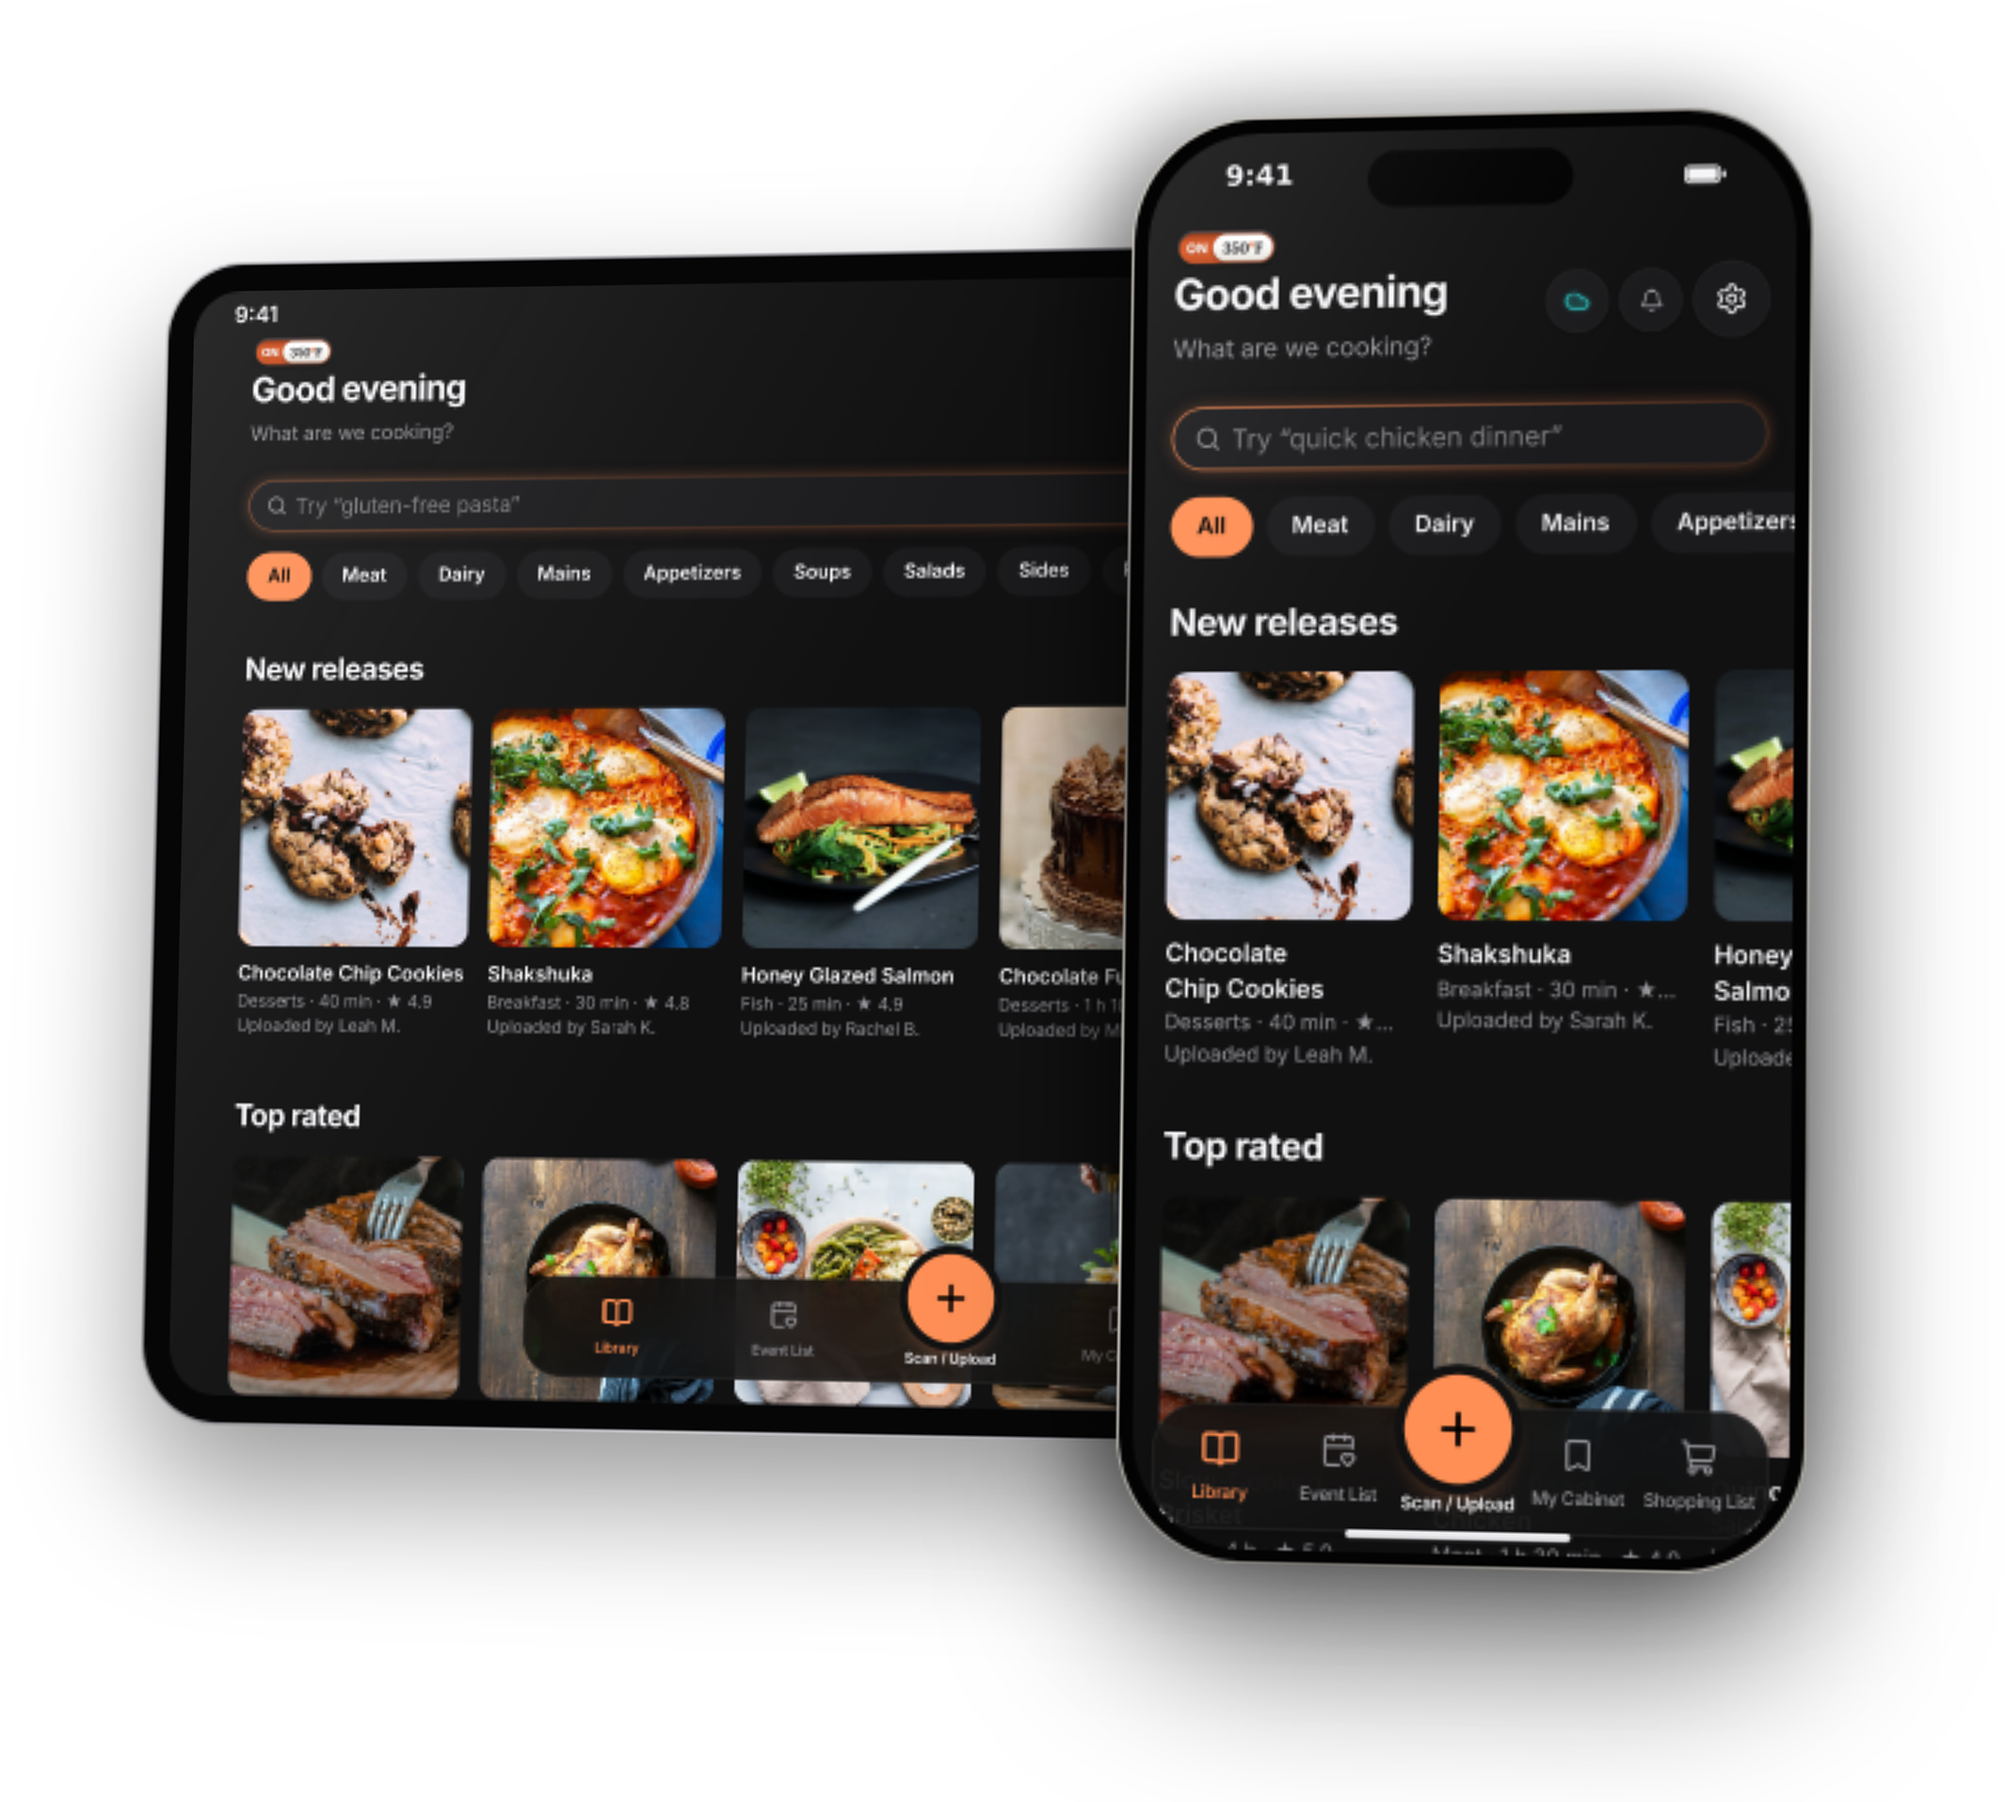
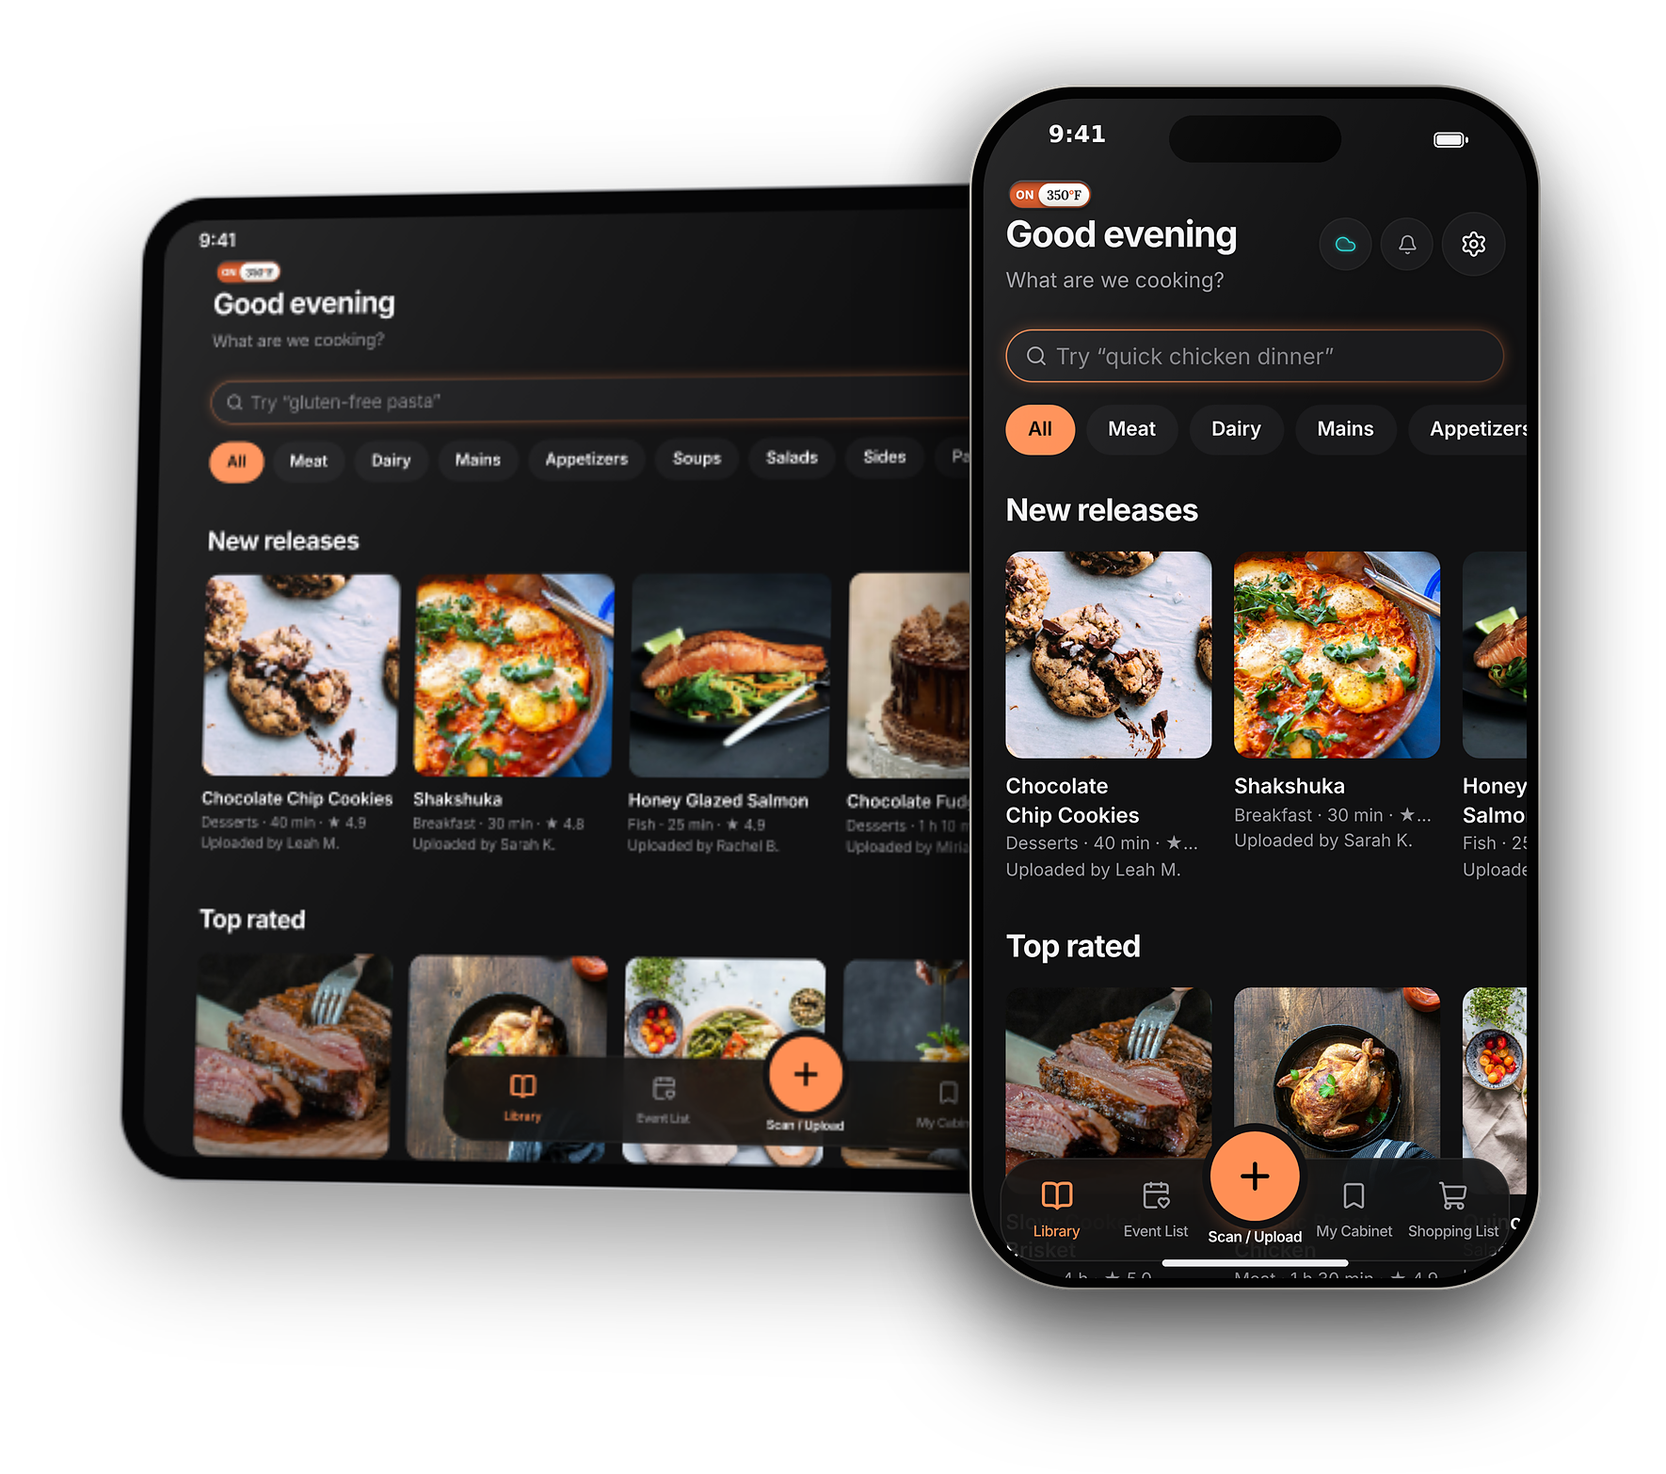
Website picture: straight iPhone in front of the tilted iPad, a little smaller, original layout (#123)
Claude-Session: https://claude.ai/code/session_01ADXpCTEnMXBBp4mHBc7Y2V

Changed region(s): [[0.0621, 0.0307, 0.9633, 0.9195]]

diff --git a/on350-landing/site/styles.css b/on350-landing/site/styles.css
@@ -76,9 +76,8 @@ p { margin: 0; }
 .hero-phone { display: flex; justify-content: center; }
 .phone { width: 320px; max-width: 100%; aspect-ratio: 390 / 844; border-radius: 44px; overflow: hidden; box-shadow: 0 0 0 8px #2a2a2d, 0 0 0 9px rgba(255, 255, 255, 0.08), 0 40px 90px rgba(0, 0, 0, 0.6), 0 0 120px rgba(255, 143, 85, 0.18); }
 .phone img { width: 100%; height: 100%; object-fit: cover; object-position: top; }
-.devices { display: block; flex: none; width: min(720px, 120%); margin: 0 -6% 0 -11%; }
-@media (min-width: 901px) { .hero { grid-template-columns: 0.95fr 1.05fr; gap: 32px; } .hero h1 { font-size: clamp(42px, 5vw, 64px); } }
-@media (min-width: 901px) and (max-width: 1150px) { .devices { width: 112%; margin: 0 -2% 0 -10%; } }
+.devices { display: block; flex: none; width: min(680px, 126%); margin: 0 -6% 0 -20%; }
+@media (max-width: 1150px) { .devices { width: 120%; margin: 0 -2% 0 -22%; } }
 .devices img { display: block; width: 100%; height: auto; filter: drop-shadow(0 0 60px rgba(255, 143, 85, 0.10)); }
 @media (max-width: 900px) {
   .hero { grid-template-columns: minmax(0, 1fr); padding-top: 48px; }

diff --git a/on350-landing/site/index.html b/on350-landing/site/index.html
@@ -73,8 +73,8 @@
     </div>
     <div class="hero-phone">
       <picture class="devices">
-        <source type="image/webp" srcset="/img/app-devices-1420.webp 1420w, /img/app-devices-2130.webp 2130w, /img/app-devices-2840.webp 2840w" sizes="(max-width: 900px) min(560px, calc(100vw - 48px)), 710px">
-        <img src="/img/app-devices.png" alt="On350 on a phone and an iPad: shelves of new, top-rated and main-course recipes, with the bottom bar for the library, events, scanning, the cabinet and the shopping list" width="2130" height="1915" fetchpriority="high">
+        <source type="image/webp" srcset="/img/app-devices-1180.webp 1180w, /img/app-devices-1770.webp 1770w, /img/app-devices-2360.webp 2360w" sizes="(max-width: 900px) min(560px, calc(100vw - 48px)), 590px">
+        <img src="/img/app-devices.png" alt="On350 on a phone and an iPad: shelves of new, top-rated and main-course recipes, with the bottom bar for the library, events, scanning, the cabinet and the shopping list" width="1770" height="1566" fetchpriority="high">
       </picture>
     </div>
   </section>
